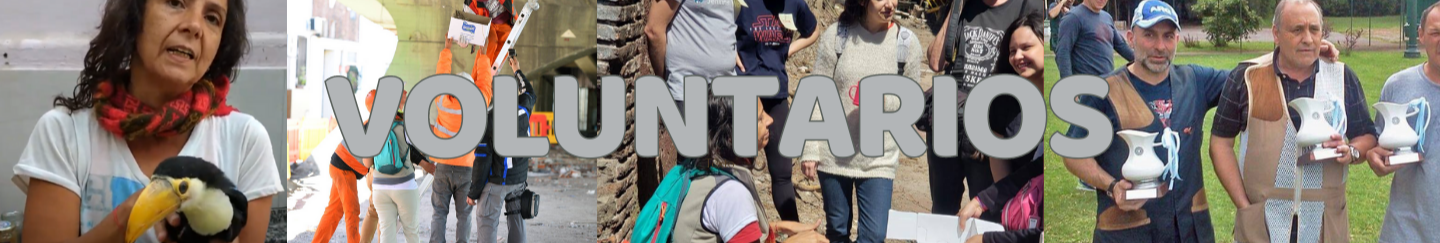
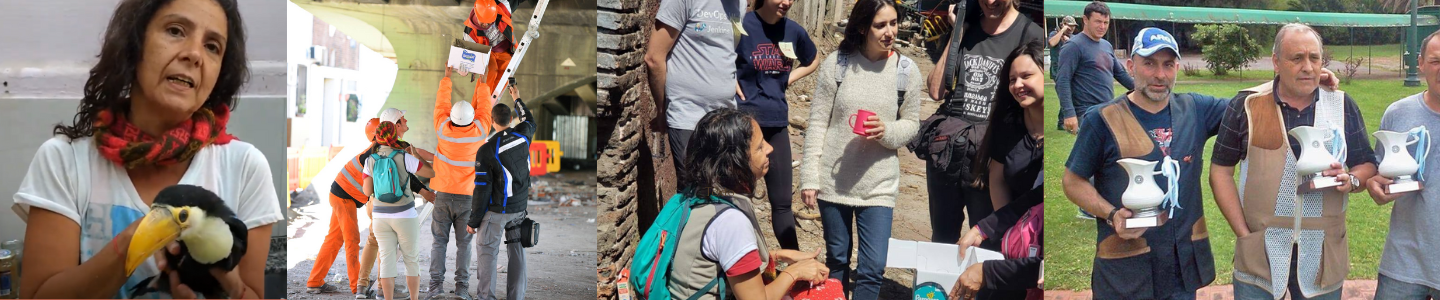
mejora de imagenes

diff --git a/src/app/voluntarios/page.jsx b/src/app/voluntarios/page.jsx
@@ -6,20 +6,23 @@ import image2 from "../../../public/images/Emma.png";
 export default function Voluntarios() {
   return (
     <div className=" min-h-screen flex flex-col mt-[70px] pb-[5rem] items-center gap-12 ">
-      <section className="w-full  h-fit md:h-[14rem] relative bg-black ">
-        <article>
+      <section className="w-full h-[14rem] md:h-[14rem] relative">
+        <article className="max-w-screen-xl mx-auto">
           <Image
             src={image1}
             alt="background"
             fill
-            className="hidden md:block"
+            className="hidden md:block object-cover w-full h-full"
           />
           <Image
             src={image1}
             alt="background"
-            className="w-full h-[10rem]  md:hidden"
+            className="w-full h-[14rem] md:hidden object-cover absolute"
           />
         </article>
+        <p className="absolute top-1/2 left-1/2 transform -translate-x-1/2 -translate-y-1/2 text-slate-300 p-2  font-semibold text-base lg:text-lg xl:text-xl 2xl:text-2xl  ">
+          voluntarios
+        </p>
       </section>
 
       <div class="hidden md:block">
